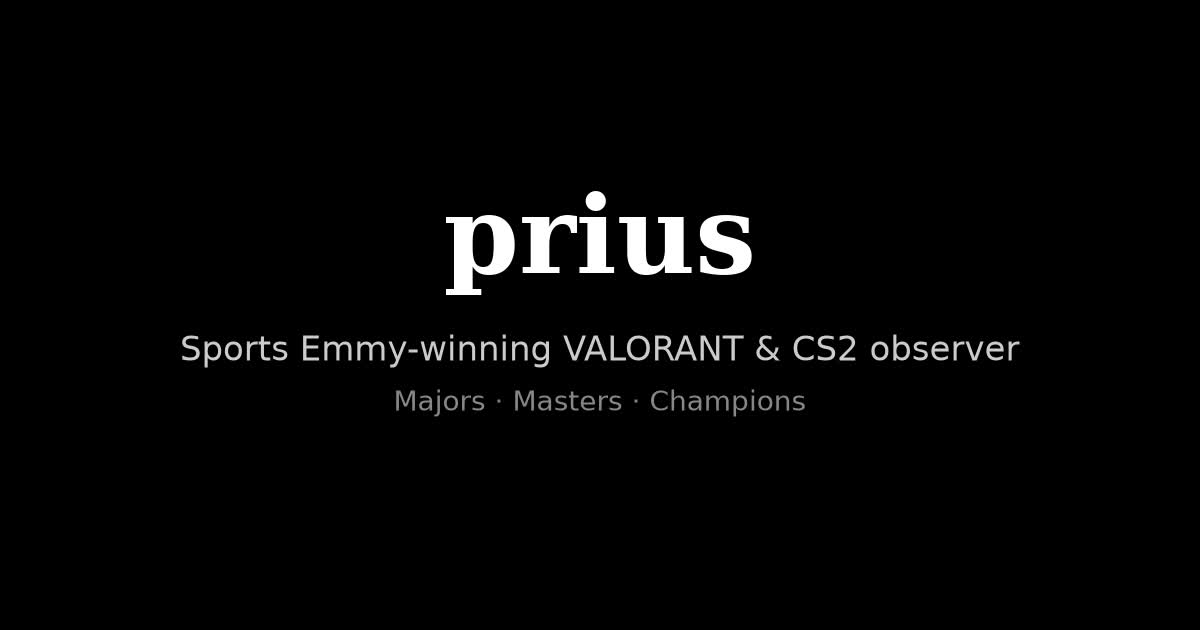
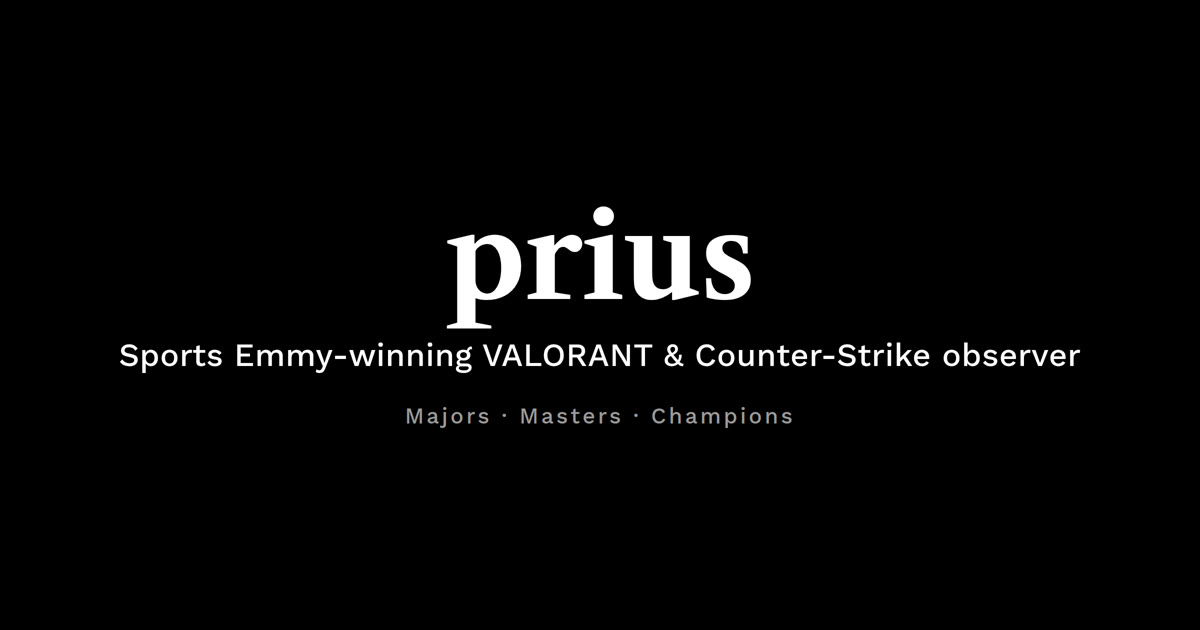
Replace CS2 with Counter-Strike on the OG preview image
Discord was still showing the old card. Rebuild og-image.jpg from the site fonts and cache-bust the meta URL.

Changed region(s): [[0.0925, 0.3016, 0.8942, 0.6937]]

diff --git a/scripts/og-card.html b/scripts/og-card.html
@@ -1,0 +1,79 @@
+<!doctype html>
+<html lang="en">
+  <head>
+    <meta charset="UTF-8" />
+    <title>og-image</title>
+    <style>
+      @font-face {
+        font-family: 'Libre Caslon Text';
+        font-style: normal;
+        font-weight: 700;
+        src: url('../node_modules/@fontsource/libre-caslon-text/files/libre-caslon-text-latin-700-normal.woff2')
+          format('woff2');
+      }
+      @font-face {
+        font-family: 'Work Sans';
+        font-style: normal;
+        font-weight: 500;
+        src: url('../node_modules/@fontsource/work-sans/files/work-sans-latin-500-normal.woff2')
+          format('woff2');
+      }
+      * {
+        box-sizing: border-box;
+        margin: 0;
+        padding: 0;
+      }
+      html,
+      body {
+        width: 1200px;
+        height: 630px;
+        overflow: hidden;
+        background: #000;
+        color: #fff;
+        -webkit-font-smoothing: antialiased;
+      }
+      .card {
+        width: 1200px;
+        height: 630px;
+        display: flex;
+        flex-direction: column;
+        align-items: center;
+        justify-content: center;
+        text-align: center;
+        padding: 0 72px;
+      }
+      h1 {
+        font-family: 'Libre Caslon Text', 'Times New Roman', serif;
+        font-weight: 700;
+        font-size: 118px;
+        line-height: 0.95;
+        letter-spacing: -0.01em;
+      }
+      p.role {
+        margin-top: 22px;
+        font-family: 'Work Sans', 'Helvetica Neue', sans-serif;
+        font-weight: 500;
+        font-size: 32px;
+        letter-spacing: 0.01em;
+        line-height: 1.25;
+        white-space: nowrap;
+      }
+      p.stages {
+        margin-top: 28px;
+        font-family: 'Work Sans', 'Helvetica Neue', sans-serif;
+        font-weight: 500;
+        font-size: 22px;
+        letter-spacing: 0.12em;
+        text-transform: none;
+        color: #9a9a9a;
+      }
+    </style>
+  </head>
+  <body>
+    <div class="card">
+      <h1>prius</h1>
+      <p class="role">Sports Emmy-winning VALORANT &amp; Counter-Strike observer</p>
+      <p class="stages">Majors · Masters · Champions</p>
+    </div>
+  </body>
+</html>

diff --git a/index.html b/index.html
@@ -22,7 +22,7 @@
       property="og:description"
       content="Freelance VALORANT & Counter-Strike observer. Four Sports Emmy nominations, one Emmy win. Majors, Masters, Champions."
     />
-    <meta property="og:image" content="https://ingame.observer/og-image.jpg" />
+    <meta property="og:image" content="https://ingame.observer/og-image.jpg?v=2" />
     <meta property="og:image:width" content="1200" />
     <meta property="og:image:height" content="630" />
     <meta name="twitter:card" content="summary_large_image" />
@@ -31,7 +31,7 @@
       name="twitter:description"
       content="Freelance VALORANT & Counter-Strike observer. Four Sports Emmy nominations, one Emmy win."
     />
-    <meta name="twitter:image" content="https://ingame.observer/og-image.jpg" />
+    <meta name="twitter:image" content="https://ingame.observer/og-image.jpg?v=2" />
     <meta name="theme-color" content="#000000" />
     <link rel="preload" as="image" href="%BASE_URL%clips/miss-anything.jpg" />
     <title>prius</title>

diff --git a/README.md b/README.md
@@ -1,6 +1,6 @@
 # prius · ingame.observer
 
-Hiring site for **prius** — Sports Emmy winner (four nominations, one win). VALORANT & CS2 observer.
+Hiring site for **prius** — Sports Emmy winner (four nominations, one win). VALORANT & Counter-Strike observer.
 
 Live: **https://ingame.observer/** · Repo: [github.com/prius707/ingame-observer](https://github.com/prius707/ingame-observer)
 
@@ -39,6 +39,7 @@ Repo needs to be public for free Pages (or GitHub Pro).
 | `npm run build` | `tsc` + Vite build |
 | `npm run preview` | preview `dist` |
 | `npm run lint` | oxlint |
+| `bash scripts/render-og-image.sh` | rebuild `public/og-image.jpg` from `scripts/og-card.html` |
 
 ## Stack
 
